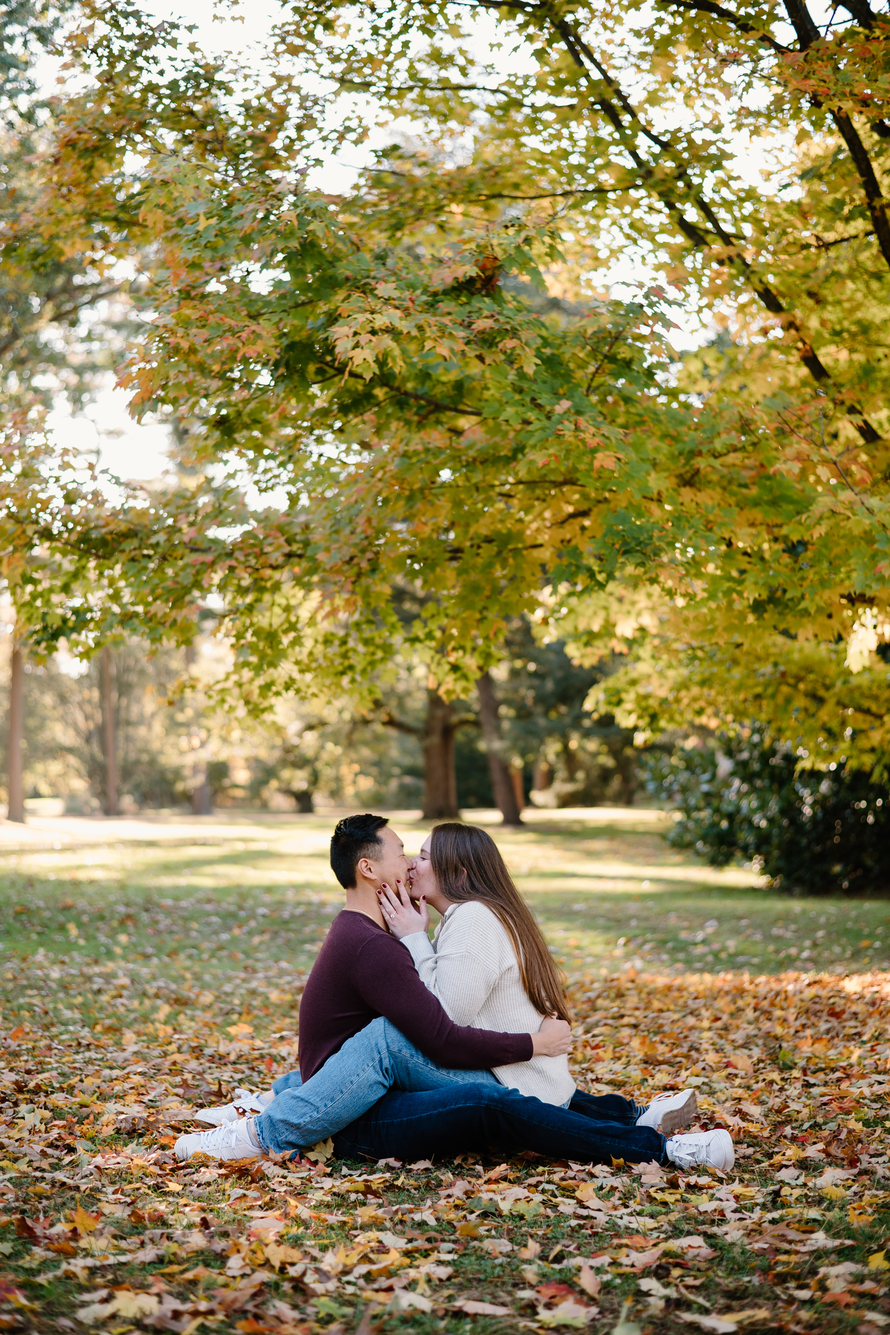
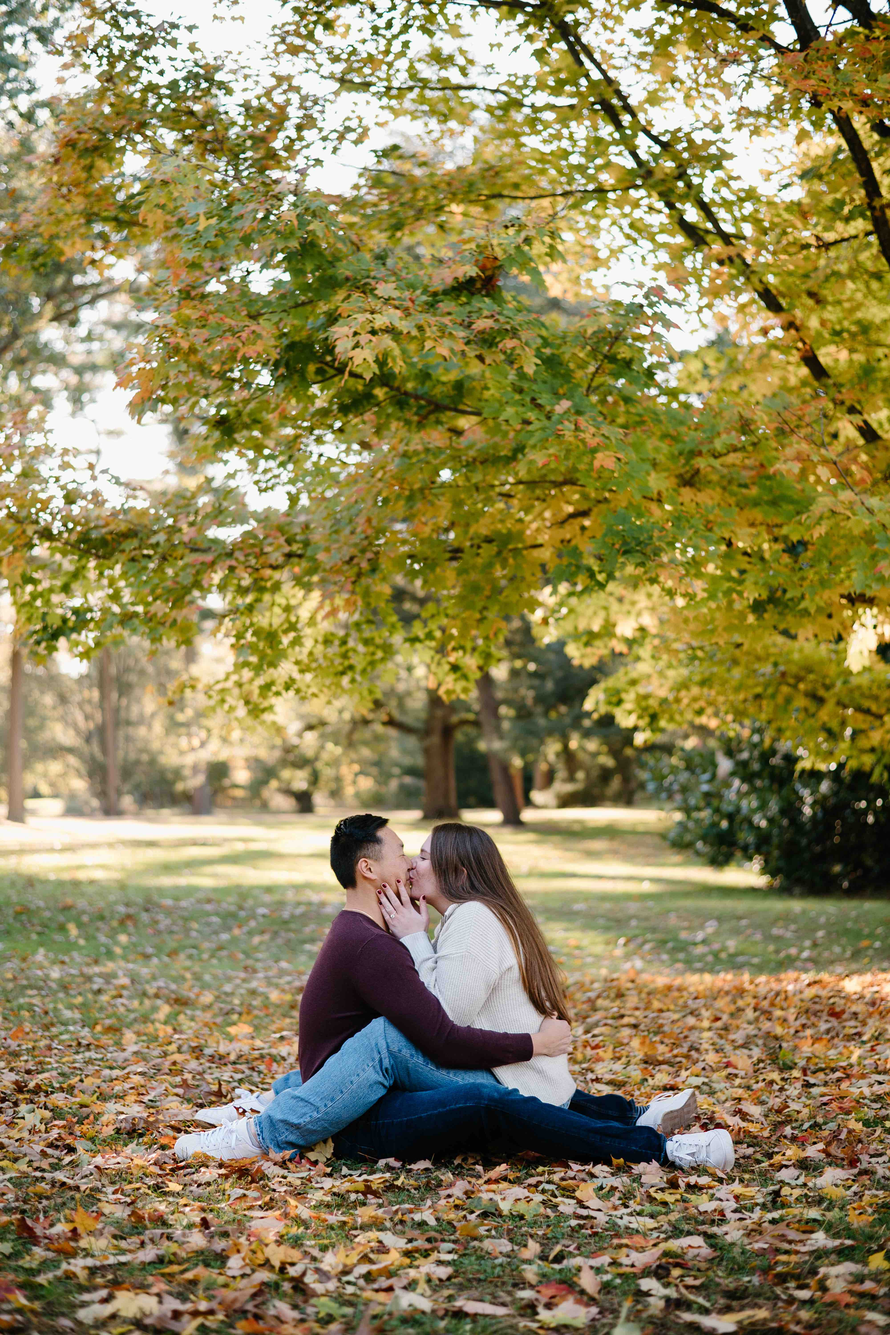
Compress pictures

diff --git a/src/pages/Party.js b/src/pages/Party.js
@@ -8,7 +8,6 @@ import {
 } from "../assets/data/translations";
 import back from "../assets/images/qa_back.jpeg";
 import divider from "../assets/images/divider.png";
-import manPhoto from "../assets/images/man.jpeg";
 import spencer from "../assets/images/party/spencer.jpg";
 import aidan from "../assets/images/party/aidan.jpg";
 import bridget from "../assets/images/party/bridget.jpeg";
@@ -24,7 +23,6 @@ import sarah from "../assets/images/party/sarah.jpg";
 import steff from "../assets/images/party/steff.jpg";
 import theresa from "../assets/images/party/theresa.jpeg";
 import tom from "../assets/images/party/tom.jpeg";
-import womanPhoto from "../assets/images/woman.jpeg";
 import "./Party.css";
 
 function Party() {

diff --git a/src/pages/Events.js b/src/pages/Events.js
@@ -21,8 +21,6 @@ import CelebrationIcon from "@mui/icons-material/Celebration";
 import LocalBarIcon from "@mui/icons-material/LocalBar";
 import OpenInNewIcon from "@mui/icons-material/OpenInNew";
 import back from "../assets/images/qa_back.jpeg";
-import manPhoto from "../assets/images/man.jpeg";
-import womanPhoto from "../assets/images/woman.jpeg";
 import "./Events.css";
 
 function Events() {

diff --git a/src/pages/AboutUs.css b/src/pages/AboutUs.css
@@ -86,3 +86,7 @@
         font-size: medium;
     }
 }
+
+[data-testid="grid-gallery-item_thumbnail"] {
+    cursor: default !important;
+}
